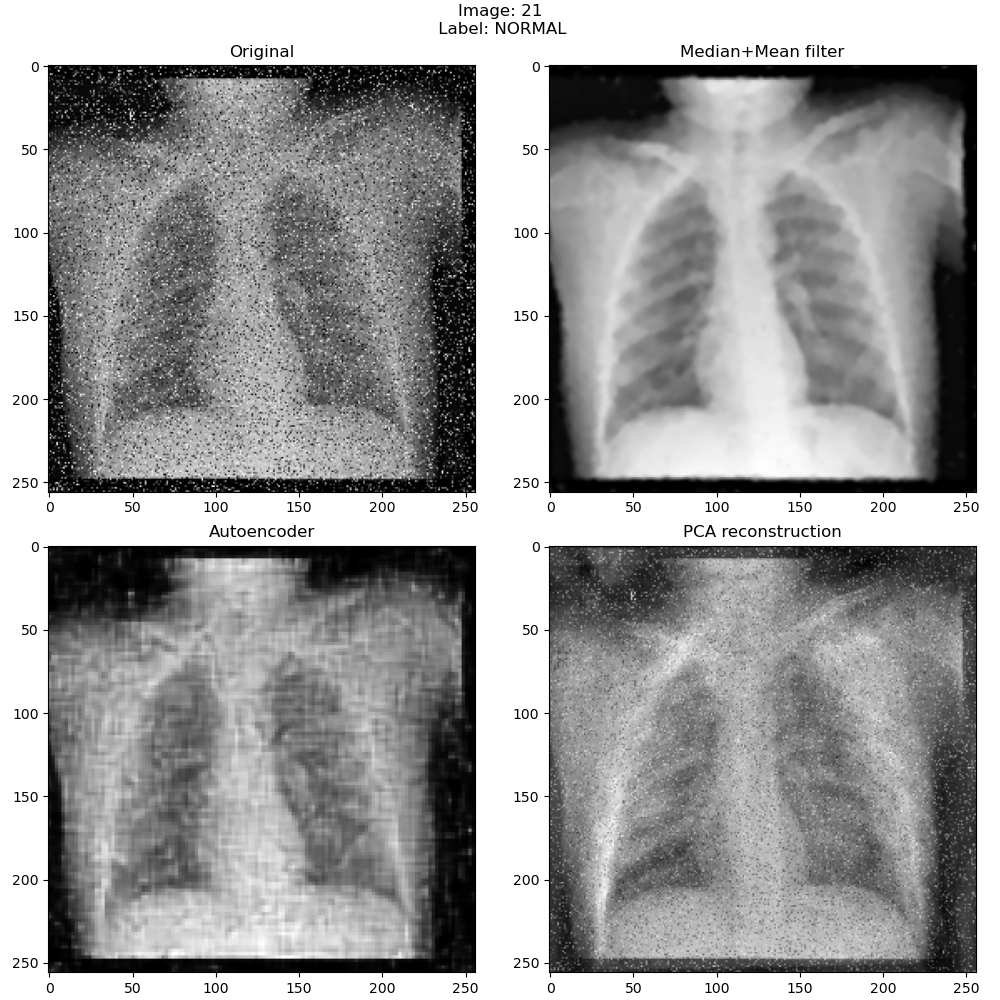
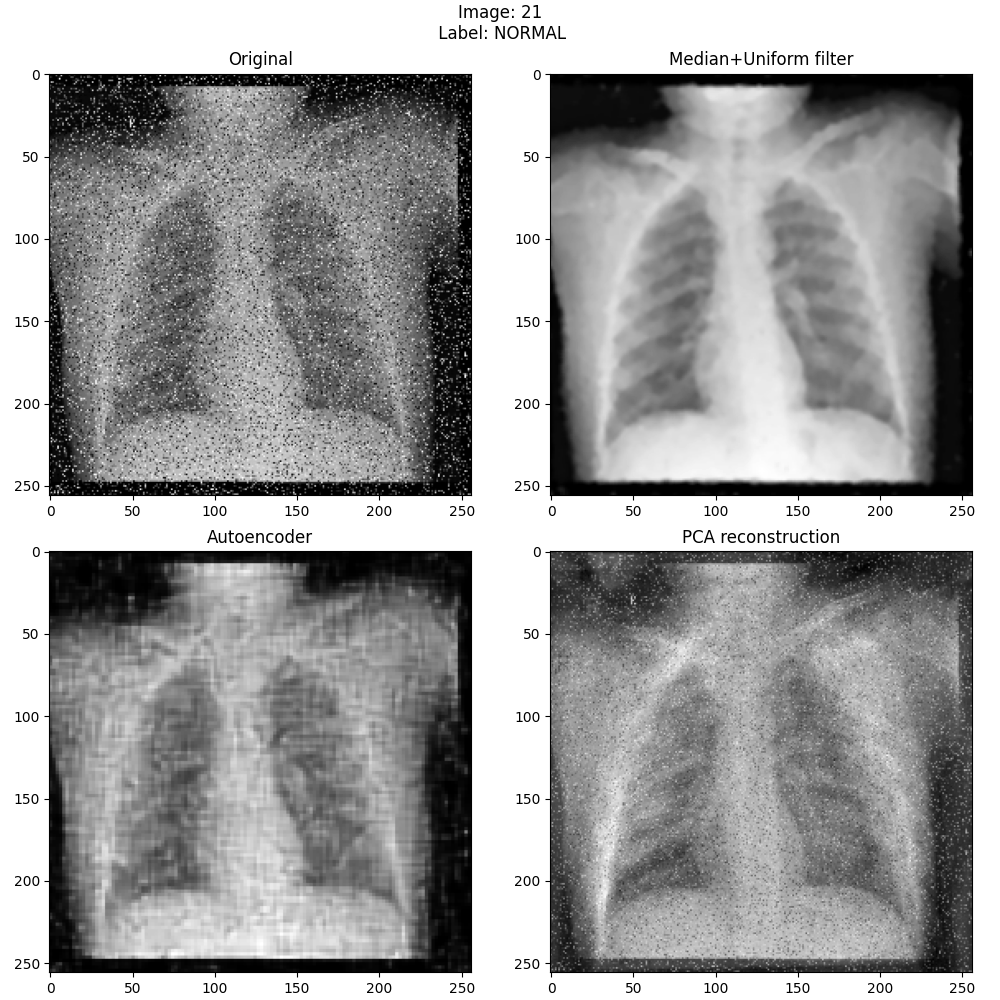
fix and add some images to the fold

diff --git a/data_exploration.py b/data_exploration.py
@@ -78,8 +78,12 @@ if __name__ == '__main__':
     label_group = pd.merge(left=label_group, right=label_group_test, how='outer')
 
     ax = sns.barplot(x='label', y='count', hue='dataset', data=label_group)
+    for i in ax.containers:
+        ax.bar_label(i, )
     ax.set_xticklabels(LABELS)
     plt.title('Number of images per class')
+    name_fig = "chartsAndPlots/train-val-test.png"
+    plt.savefig(name_fig)
     plt.show()
 
     # DATA EXPLORATION - ROI Analysis
@@ -119,7 +123,8 @@ if __name__ == '__main__':
         plt.ylim([0, 50])
         title = "ROI histogram"
         plt.title(title)
-
+        name_fig = "chartsAndPlots/data_expl_img"+str(image_indexes[row])+".png"
+        plt.savefig(name_fig)
         row += 1
         plt.show()
 
@@ -163,6 +168,8 @@ if __name__ == '__main__':
 
     noise_labels = ['Normal Contrast', 'Complementary Contrast', 'Noisy/Corrupted']
     data = [round(count_normal / len(images_list), 4), round(count_inverted / len(images_list), 4), round(count_noise / len(images_list), 4)]
-    plt.pie(data, labels=noise_labels)
+    plt.pie(data,labels=noise_labels, autopct=lambda p: '{:.2f}%'.format(p * sum(data)))
     plt.title('Distribution of normal, inverted contrast, and noisy or corrupted images')
+    name_fig = "chartsAndPlots/normal-inverted-noisy.png"
+    plt.savefig(name_fig)
     plt.show()

diff --git a/denoising_comparison.py b/denoising_comparison.py
@@ -71,7 +71,7 @@ if __name__ == '__main__':
         axs[0, 0].set_title("Original")
 
         axs[0, 1].imshow(image_filt, cmap="gray")
-        axs[0, 1].set_title("Median+Mean filter")
+        axs[0, 1].set_title("Median+Uniform filter")
 
         axs[1, 0].imshow(image_autoencoder, cmap="gray")
         axs[1, 0].set_title("Autoencoder")
